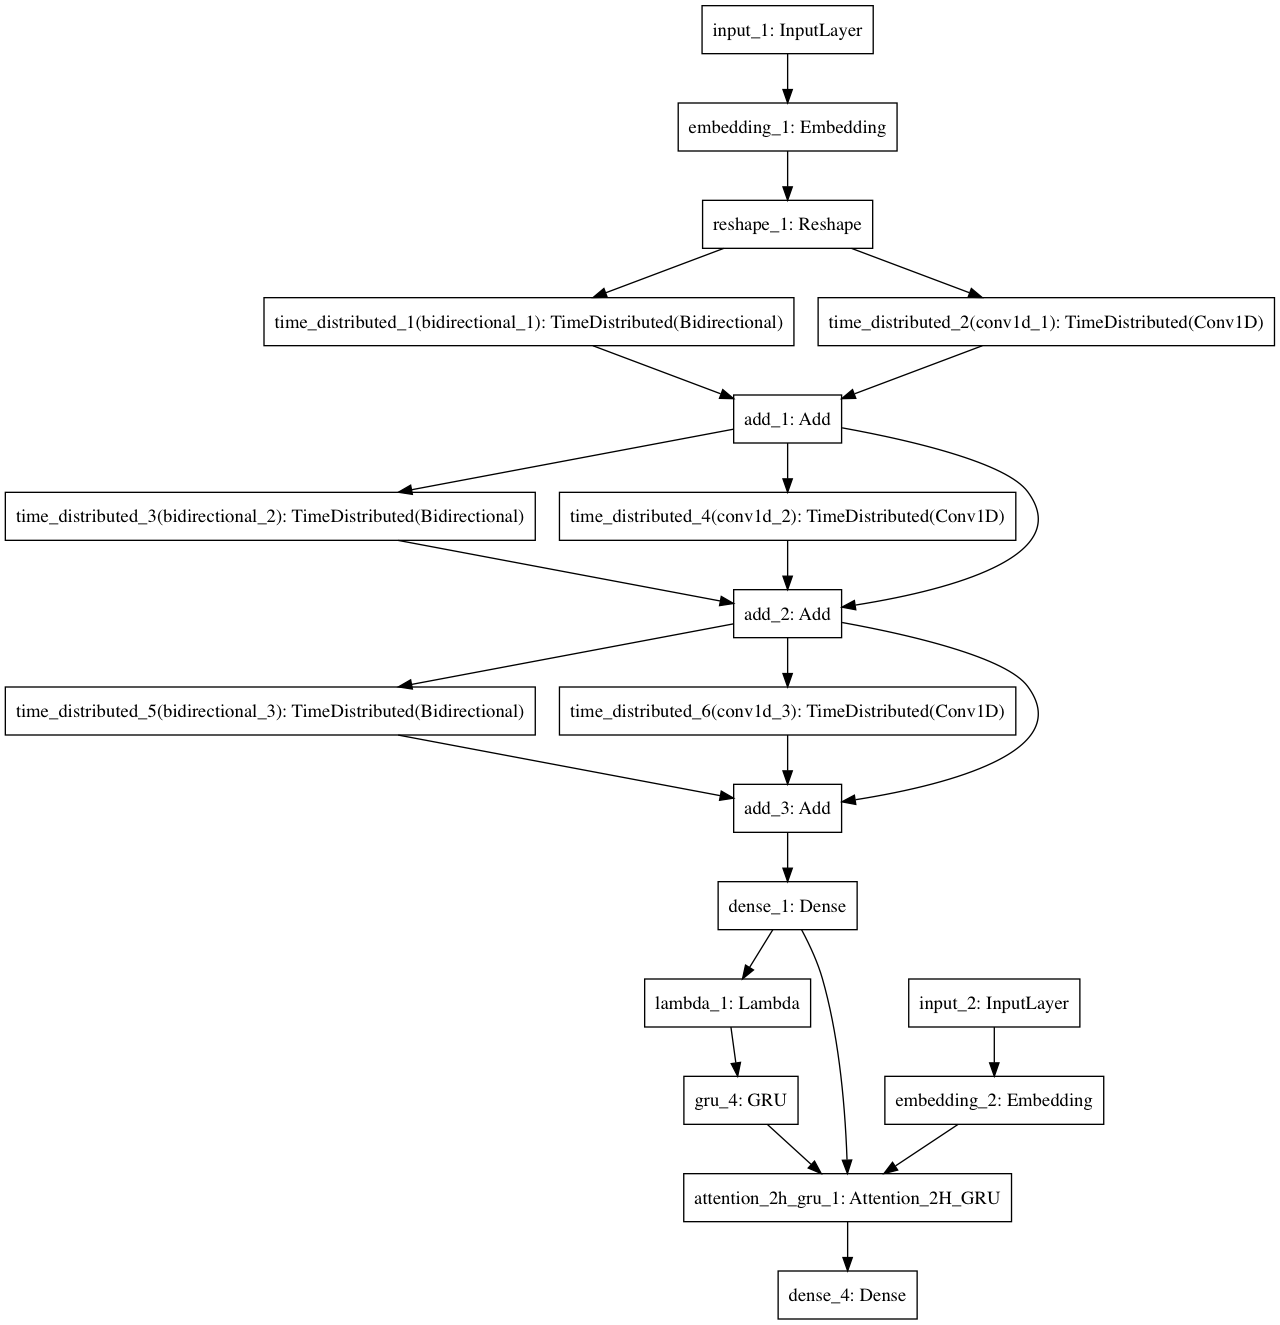
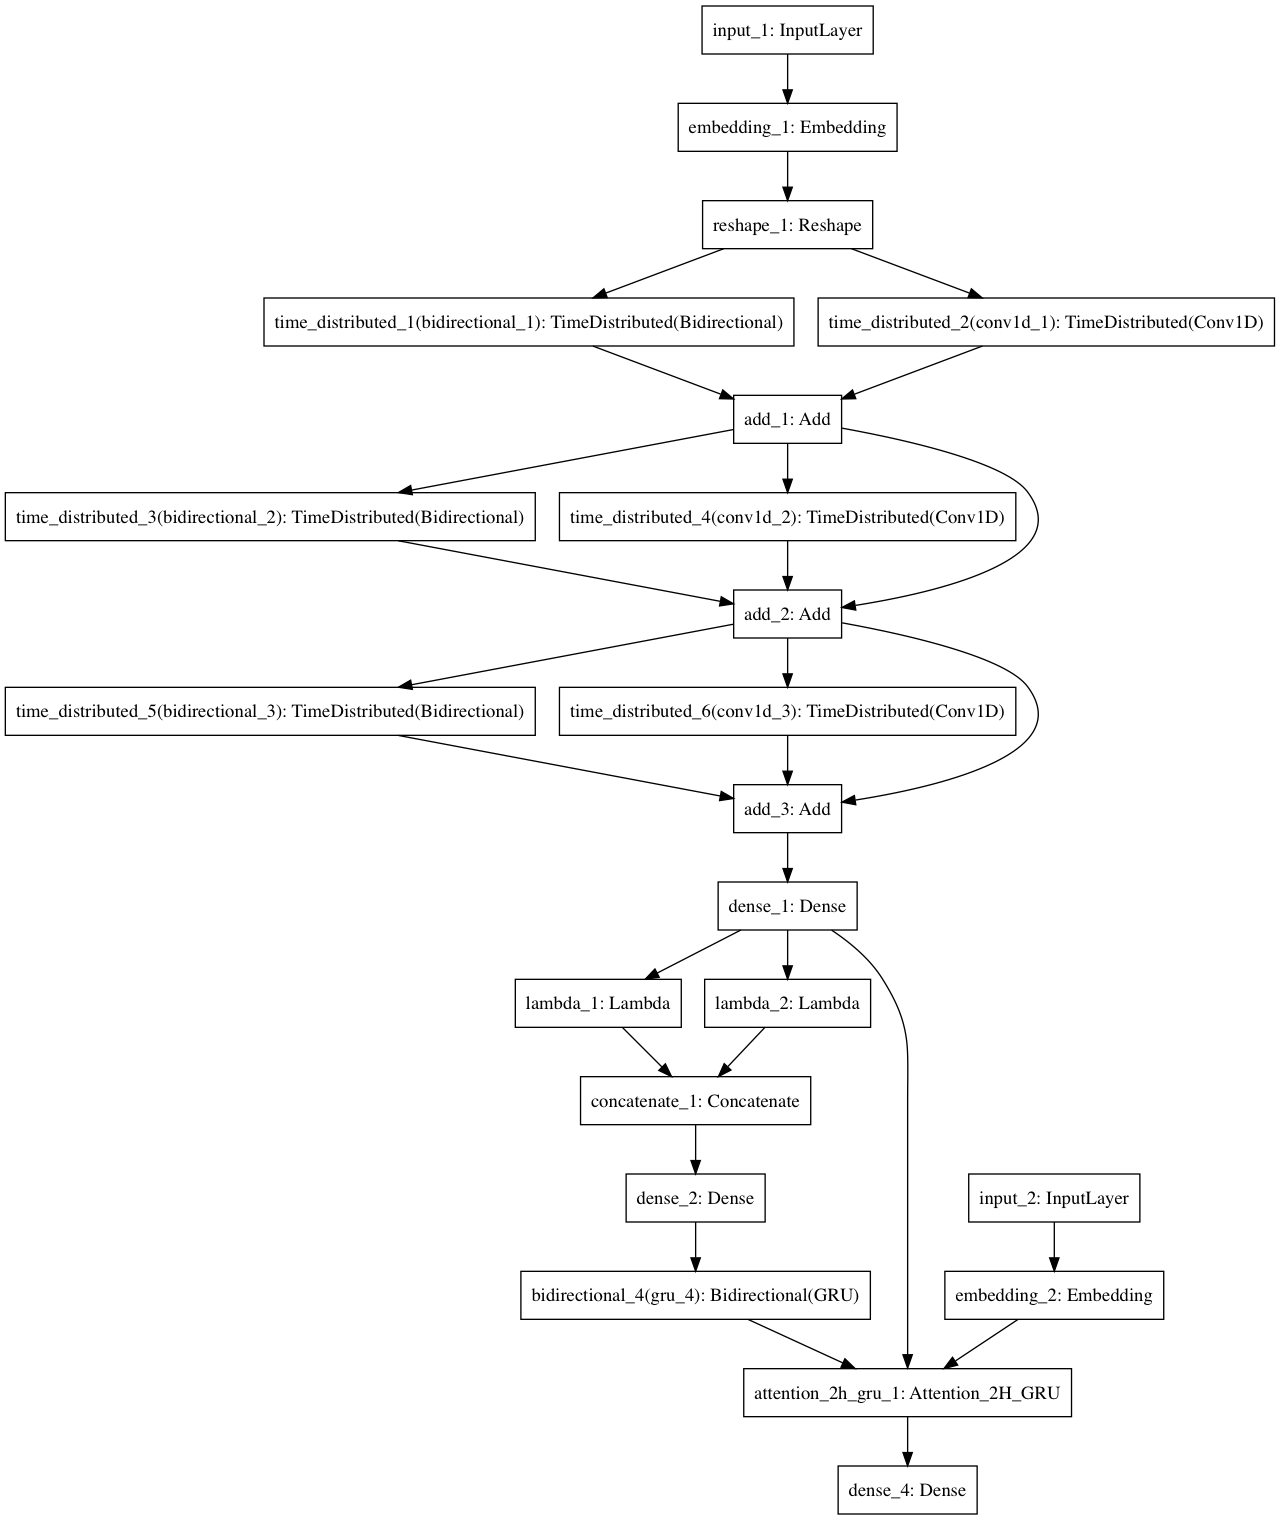
2017-10-8

Changed region(s): [[0.0, 0.0, 1.0, 1.0]]

diff --git a/MyModels.py b/MyModels.py
@@ -216,7 +216,7 @@ def BiGRU_Attention_Ref_2H_AutoEncoder(id2v, Sen_len=30, Max_sen=7, Title_len=15
     encode_h1_last = Lambda(lambda x : x[:, :, -1, :], output_shape = lambda s : (s[0], s[1], s[3]))(encode_h1)
     encode_h1_summ = Dense(h_dim, activation=None)(Concatenate()([encode_h1_first, encode_h1_last]))
     ## shape = (batch, Max_sen, h_dim)
-    encode_h2 = GRU(h_dim, return_sequences=True)(encode_h1_first)
+    encode_h2 = Bidirectional(GRU(h_dim, return_sequences=True))(encode_h1_summ)
     ## shape = (batch, Max_sen, h_dim)
     encode_h2_first = Lambda(lambda x : x[:, 0, :], output_shape = lambda s : (s[0], s[2]))(encode_h2)
     encode_h2_last = Lambda(lambda x : x[:, 0, :], output_shape = lambda s : (s[0], s[2]))(encode_h2)
